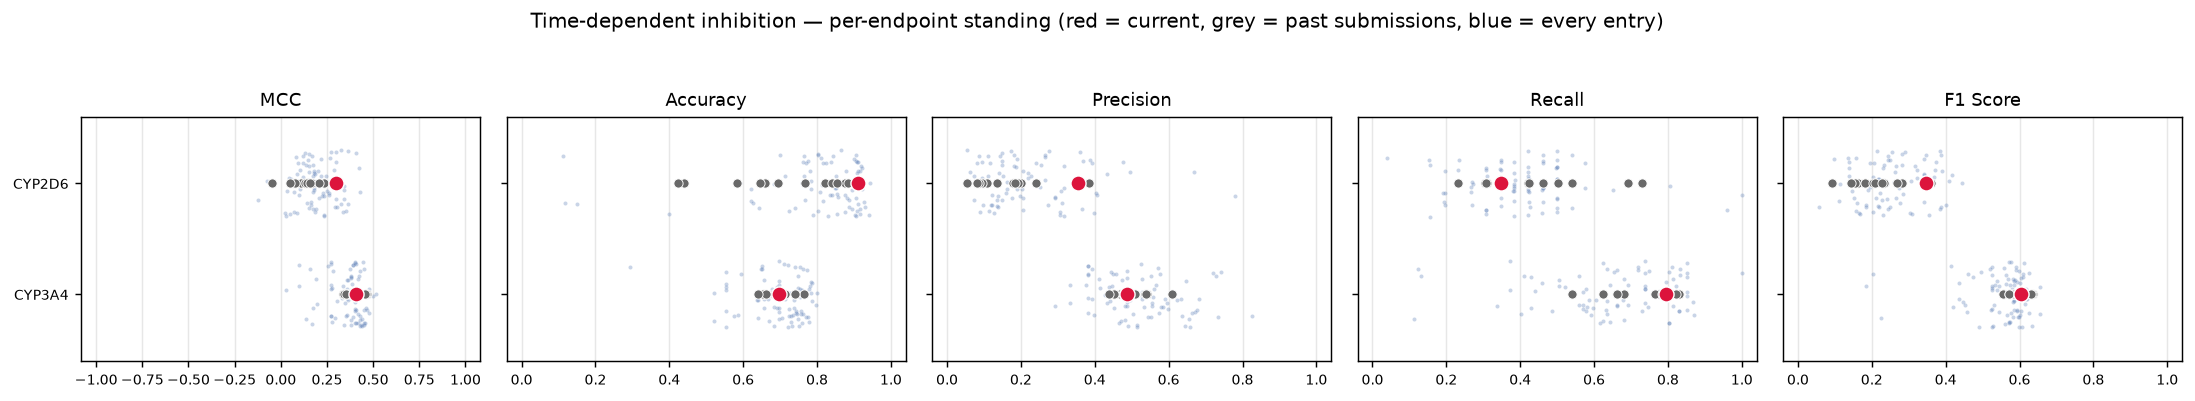
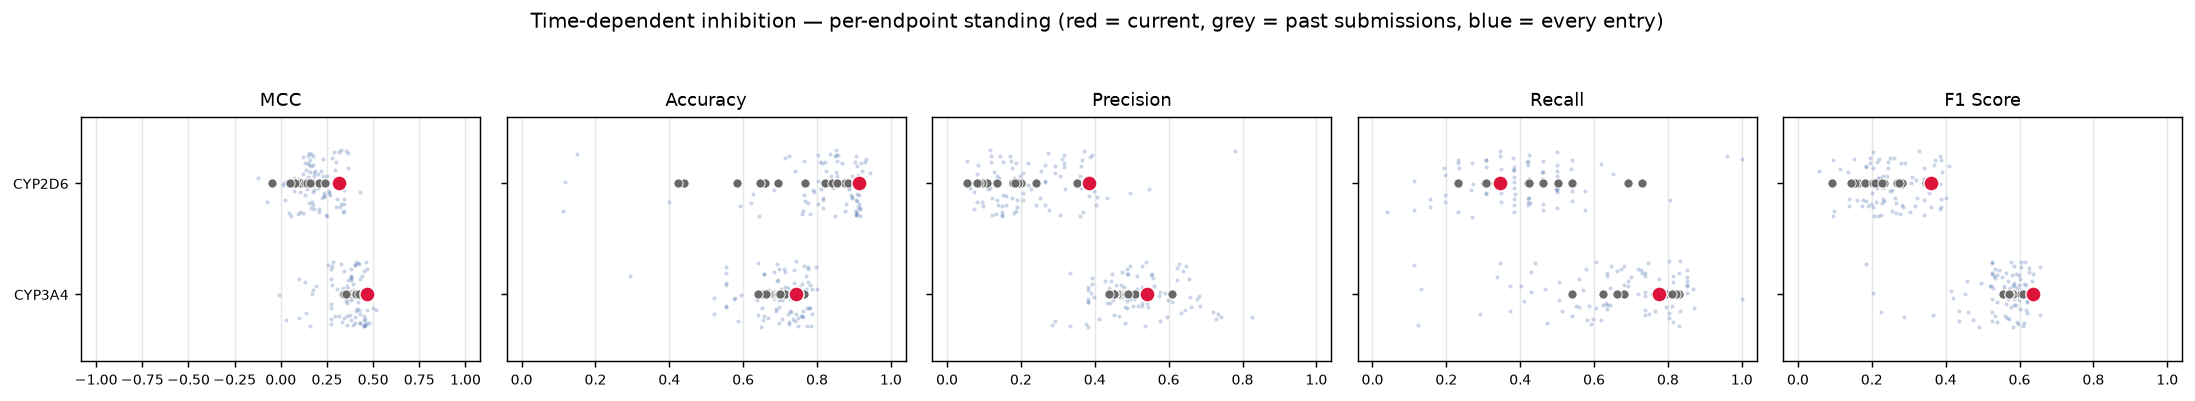
CYP inhibition challenge -- method and results

diff --git a/README.md b/README.md
@@ -30,15 +30,15 @@ Every reported number is out-of-fold. Nothing is scored on data the base learner
 
 <table>
 <thead>
-<tr><th rowspan="2">Endpoint</th><th colspan="4">Metrics &mdash; held-out CV</th><th colspan="3">Ranking &mdash; of 146 entries</th></tr>
+<tr><th rowspan="2">Endpoint</th><th colspan="4">Metrics &mdash; held-out CV</th><th colspan="3">Ranking &mdash; of 155 entries</th></tr>
 <tr><th>MAE</th><th>RMSE</th><th>R²</th><th>Spearman ρ</th><th>best</th><th>latest</th><th>percentile</th></tr>
 </thead>
 <tbody>
-<tr><td>CYP1A2</td><td align="right">0.433</td><td align="right">0.592</td><td align="right">0.667</td><td align="right">0.774</td><td align="right">3</td><td align="right">3</td><td align="right">top 2%</td></tr>
-<tr><td>CYP2C9</td><td align="right">0.327</td><td align="right">0.443</td><td align="right">0.667</td><td align="right">0.834</td><td align="right">6</td><td align="right">6</td><td align="right">top 4%</td></tr>
-<tr><td>CYP2D6</td><td align="right">0.442</td><td align="right">0.654</td><td align="right">0.487</td><td align="right">0.788</td><td align="right">33</td><td align="right">33</td><td align="right">top 23%</td></tr>
-<tr><td>CYP3A4</td><td align="right">0.349</td><td align="right">0.469</td><td align="right">0.813</td><td align="right">0.910</td><td align="right">11</td><td align="right">11</td><td align="right">top 8%</td></tr>
-<tr><td><strong>macro average</strong></td><td align="right"><strong>0.388</strong></td><td align="right"><strong>0.540</strong></td><td align="right"><strong>0.658</strong></td><td align="right"><strong>0.827</strong></td><td align="right"><strong>10</strong></td><td align="right"><strong>10</strong></td><td align="right"><strong>top 7%</strong></td></tr>
+<tr><td>CYP1A2</td><td align="right">0.429</td><td align="right">0.589</td><td align="right">0.671</td><td align="right">0.777</td><td align="right">3</td><td align="right">5</td><td align="right">top 3%</td></tr>
+<tr><td>CYP2C9</td><td align="right">0.327</td><td align="right">0.443</td><td align="right">0.667</td><td align="right">0.834</td><td align="right">6</td><td align="right">8</td><td align="right">top 5%</td></tr>
+<tr><td>CYP2D6</td><td align="right">0.432</td><td align="right">0.658</td><td align="right">0.481</td><td align="right">0.792</td><td align="right">33</td><td align="right">39</td><td align="right">top 25%</td></tr>
+<tr><td>CYP3A4</td><td align="right">0.349</td><td align="right">0.469</td><td align="right">0.813</td><td align="right">0.910</td><td align="right">16</td><td align="right">17</td><td align="right">top 11%</td></tr>
+<tr><td><strong>macro average</strong></td><td align="right"><strong>0.384</strong></td><td align="right"><strong>0.540</strong></td><td align="right"><strong>0.658</strong></td><td align="right"><strong>0.828</strong></td><td align="right"><strong>13</strong></td><td align="right"><strong>16</strong></td><td align="right"><strong>top 10%</strong></td></tr>
 </tbody>
 </table>
 
@@ -46,13 +46,13 @@ Every reported number is out-of-fold. Nothing is scored on data the base learner
 
 <table>
 <thead>
-<tr><th rowspan="2">Endpoint</th><th colspan="2">Metrics &mdash; held-out CV</th><th colspan="3">Ranking &mdash; of 81 entries</th></tr>
+<tr><th rowspan="2">Endpoint</th><th colspan="2">Metrics &mdash; held-out CV</th><th colspan="3">Ranking &mdash; of 85 entries</th></tr>
 <tr><th>MCC</th><th>AUC</th><th>best</th><th>latest</th><th>percentile</th></tr>
 </thead>
 <tbody>
-<tr><td>CYP2D6</td><td align="right">0.228</td><td align="right">0.645</td><td align="right">13</td><td align="right">14</td><td align="right">top 17%</td></tr>
-<tr><td>CYP3A4</td><td align="right">0.517</td><td align="right">0.845</td><td align="right">3</td><td align="right">27</td><td align="right">top 33%</td></tr>
-<tr><td><strong>macro average</strong></td><td align="right"><strong>0.372</strong></td><td align="right"><strong>0.745</strong></td><td align="right"><strong>13</strong></td><td align="right"><strong>13</strong></td><td align="right"><strong>top 16%</strong></td></tr>
+<tr><td>CYP2D6</td><td align="right">0.195</td><td align="right">0.622</td><td align="right">13</td><td align="right">14</td><td align="right">top 16%</td></tr>
+<tr><td>CYP3A4</td><td align="right">0.496</td><td align="right">0.835</td><td align="right">3</td><td align="right">5</td><td align="right">top 6%</td></tr>
+<tr><td><strong>macro average</strong></td><td align="right"><strong>0.346</strong></td><td align="right"><strong>&ndash;</strong></td><td align="right"><strong>6</strong></td><td align="right"><strong>6</strong></td><td align="right"><strong>top 7%</strong></td></tr>
 </tbody>
 </table>
 
